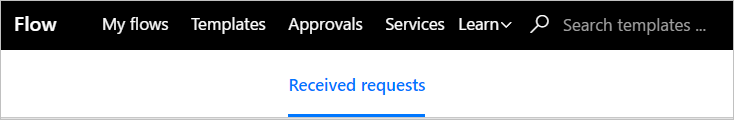
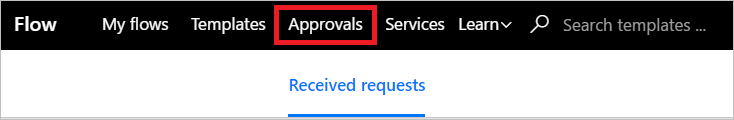
updates to approvals doc

Changed region(s): [[0.3597, 0.025, 0.5395, 0.375]]

diff --git a/articles/sharepoint-approvals.md b/articles/sharepoint-approvals.md
@@ -1,6 +1,6 @@
 <properties
-    pageTitle="SharePoint Approvals. | Microsoft Flow"
-    description="SharePoint Approvals."
+    pageTitle="Automate approval workflows. | Microsoft Flow"
+    description="Automate approval workflows that integrate with SharePoint, Dynamics CRM, Salesforce, One Drive for Business, Zendesk, or WordPress."
     services=""
     suite="flow"
     documentationCenter="na"
@@ -20,13 +20,23 @@
 
 # Manage approvals with Microsoft Flow
 
-You can create a flow that manages the approval of documents or process by integrating with SharePoint, Dynamics CRM, Salesforce, One Drive for Business, Zendesk, or Wordpress.
+You can create a flow that manages the approval of documents or processes by adding the **Approvals - Start an approval** action to your flow. Any flow that includes the **Approvals - Start an approval** action can easily integrate with services, including SharePoint, Dynamics CRM, Salesforce, One Drive for Business, Zendesk, or WordPress.
 
-For example, a document approval flow can be created to approve or reject invoices, work orders or sales quotations. You can create a process approval flow that approves or rejects vacation requests, overtime work or travel plans.
+You can approve requests from email, the approvals center or the Microsoft Flow mobile app.
+
+<!For example, you can create a document approval flow that approves or rejects invoices, work orders or sales quotations. You can create a process approval flow that approves or rejects vacation requests, overtime work or travel plans.
 
 ## Create an approval flow
 
-In this walk-through, we'll create a flow that defines a vacation request-approval workflow. Each vacation request is created in a SharePoint Online list. The flow monitors the SharePoint Online list and sends an approval request to a group or user when a new item appears in the list. After the group or user decides, the flow sends an email to the person who requested vacation. Finally, the flow updates the SharePoint Online list with the decision, and any comments from the decision-maker.
+In this walk-through, we'll create a flow that does the following:
+
+1. Gets triggered when a vacation request is created in a SharePoint Online list.
+
+1. Adds the request to the approval center, and then emails an approval request to a group or user.
+
+1. Sends an email to the person who requested vacation after the group or user approves or rejects the request.
+
+1. Updates the SharePoint Online list with the decision, and any comments from the decision-maker.
 
 This diagram shows the details of the flow we'll create in this walk-through:
 
@@ -38,9 +48,11 @@ This diagram shows the details of the flow we'll create in this walk-through:
 
 - Access to a SharePoint Online list.
 
-- Access to Office 365 email and Office 365 Users account.
+- Access to Office 365 Outlook and Office 365 Users account.
 
-Before you create the flow, create a [SharePoint Online list](https://support.office.com/article/Training-Create-and-set-up-a-list-1DDC1F5A-A908-478B-BB6D-608F34B71F94); we'll use this list to request approval for vacations. The list must include the following fields:
+>[AZURE.NOTE]While we're using SharePoint Online and Office 365 Outlook in this walk-through, you can use other services such as Zendesk, Salesforce or Gmail.
+
+Before you create the flow, create a [SharePoint Online list](https://support.office.com/article/Training-Create-and-set-up-a-list-1DDC1F5A-A908-478B-BB6D-608F34B71F94); we'll use this list to request approval for vacations. The list must include the following columns:
 
    ![](./media/sharepoint-approvals/sharepoint-list-fields.png)
 
@@ -162,6 +174,8 @@ Follow these steps to send an email if the vacation request is approved:
 
      ![](./media/sharepoint-approvals/yes-email-config.png)
 
+     Note: In the **Body** box on the **Send an email** card, use the **Comments** token from the **Approvals - Start an approval** action.
+
 ### Add an update action for approved requests
 
 1. Select **Add an action**.
@@ -234,63 +248,45 @@ If you've followed along, your flow should look like this screenshot:
 
 ## Request an approval
 
-<!-- I need to update the images in this section and review the text -->
+Create a new vacation request in the SharePoint Online list you created earlier in this walk-through.
 
-You can request an approval from a SharePoint document library or a SharePoint document list by following these steps:
+Your request should look like this:
 
-1. Select the document from the **Flow and approvals** list.
+![vacation request](./media/sharepoint-approvals/vacation-request.png)
 
-     ![](./media/sharepoint-approvals/save.png)
+After you save this request, the flow triggers, and then:
 
-1. Select **Get started** from the **Flow and approvals** list.
+1. Creates a request in the approvals center.
 
-     ![](./media/sharepoint-approvals/save.png)
-
-1. Select **Send for approval**:
-
-     You need to accept the terms and conditions if you haven't done so previously. To do so, select the **Accept** button on the **APPROVAL MADE EASY** page.
-
-     ![](./media/sharepoint-approvals/save.png)
-
-1. Provide the name, email address, or group alias for the approver whom you want to approve the request.
-
-     ![](./media/sharepoint-approvals/save.png)
-
-1. Optionally, provide a message for the approver.
-
-     ![](./media/sharepoint-approvals/save.png)
-
-1. Select the **Send for approval** button.
-
-     ![](./media/sharepoint-approvals/save.png)
-
-1. Confirm that the **Approval status** for the document now shows **Awaiting approval**.
-
-     ![](./media/sharepoint-approvals/save.png)
+1. Sends an approval request email to the approvers.
 
 ## View pending approval requests
 
-1. Sign into [Microsoft Flow](https://flow.microsoft.com):
+View all pending approval requests by following these steps:
+
+1. Sign into [Microsoft Flow](https://flow.microsoft.com).
 
      ![sign in](./media/sharepoint-approvals/sign-in.png)
 
-1. Select the **Approvals** tab:
+1. Select the **Approvals** tab.
 
-     ![create from blank](./media/sharepoint-approvals/blank-template.png)
+     ![approvals tab](./media/sharepoint-approvals/approvals-tab.png)
 
-1. Select the **Received requests** tab:
+1. View all **Received requests**.
 
-     ![create from blank](./media/sharepoint-approvals/blank-template.png)
+     ![pending requests](./media/sharepoint-approvals/pending-requests.png)
 
 ## Approve a request
 
-If you're the approver in a flow, you'll receive an email or a push notification whenever an approval request is sent to you. The approval request is also sent to the approvals center. You can approve or reject the request from within the email, push notification, or approvals center. The push notification and email show a subset of the approval request's details. Select the link within the push notification or email to launch the approvals center where you can view all details about the approval request.
+If you're the approver in an approval flow, you'll receive an email whenever someone creates a new request. The approval request is also sent to the approvals center. You can approve or reject requests from the email, approvals center or Microsoft Flow mobile app.
 
 To approve a request:
 
 ### From email
 
-1. Select the **Approve** button in the email you receive when a new item is added to the SharePoint list.
+1. Select **Approve** from the email you receive when a new item is added to the SharePoint list.
+
+     Note: If you're on an Android or iOS mobile phone with the Microsoft Flow app installed, the Microsoft Flow mobile app will launch, otherwise, the approvals center will open in your browser.
 
      ![](./media/sharepoint-approvals/email-approval-request.png)
 
@@ -319,10 +315,25 @@ To approve a request:
 
 ### From the Microsoft Flow mobile app
 
-!--I need to do this section -->
+1. On your mobile phone with the Microsoft Flow app installed, select **Approve** from the request approval email.
+
+1. Select **Confirm** in the upper right corner of the screen.
+
+     ![](./media/sharepoint-approvals/mobile-approval.png)
+
+1. The success page shows.
+
+     ![](./media/sharepoint-approvals/mobile-approval-confirmation.png)
+
+Note: The screens on Android and iOS may differ slightly, however, the functionality is the same on both devices.
 
 ## Reject a request
 
 You can reject a request via email, the approvals center or the Microsoft Flow mobile app. Simply follow the steps used for approving a request, but, select **Reject**, instead of **Approve**.
 
-## More information
+After you confirm the decision (either approve or reject the request), the flow does the following:
+
+1. Sends an email to the person who requested vacation approval.
+
+1. Updates the SharePoint list with the decision and the comments from the approver.
+
